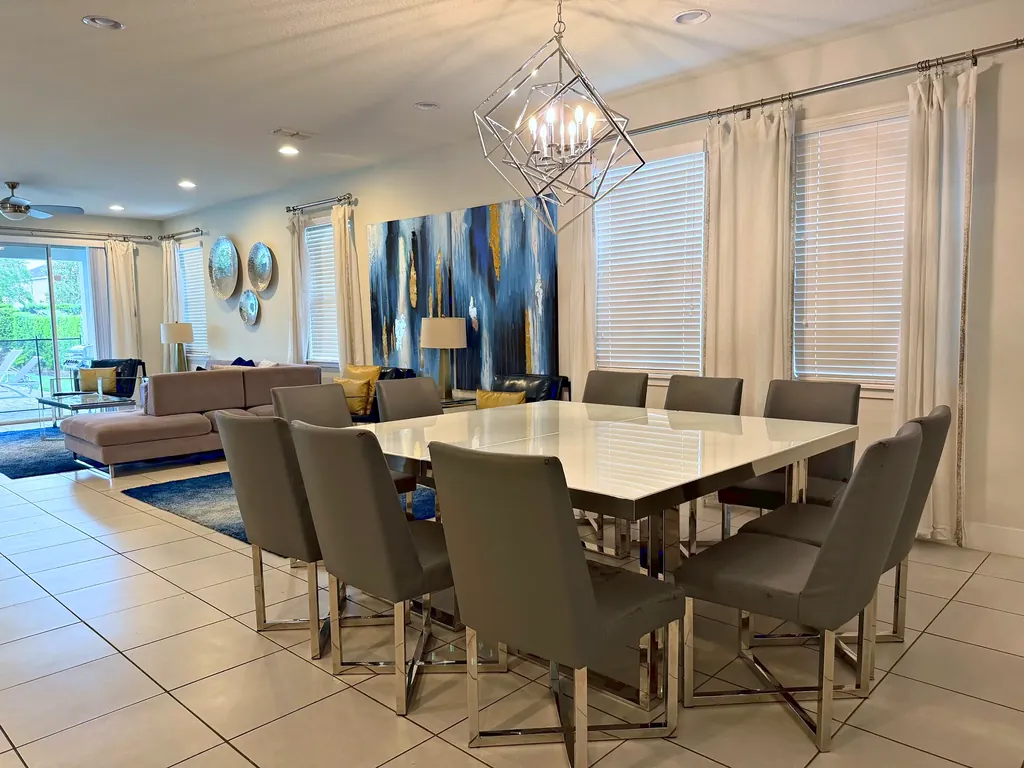
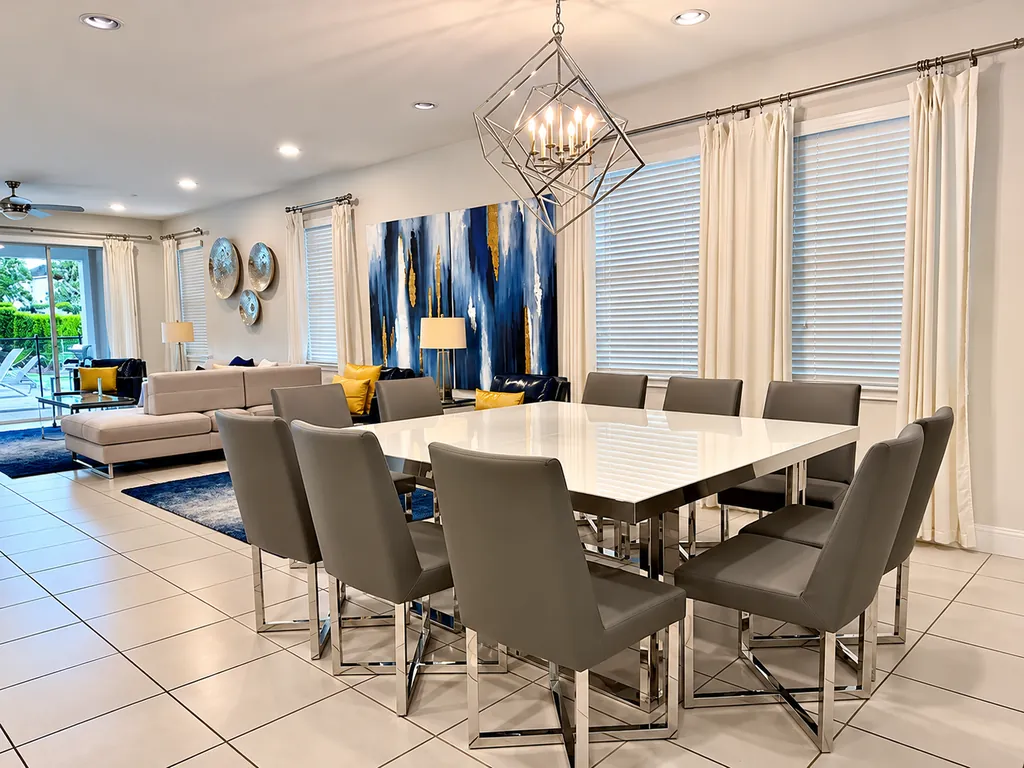
Replace open-plan dining photo with the enhanced version

diff --git a/index.html b/index.html
@@ -9,7 +9,7 @@
 
   <meta property="og:title" content="Villa Serena · 8-Bedroom Private Pool Villa">
   <meta property="og:description" content="8 bedrooms · 8 bathrooms · 13 beds · private pool. Book your family's Orlando stay direct.">
-  <meta property="og:image" content="assets/img/pool-lanai.jpg?v=28">
+  <meta property="og:image" content="assets/img/pool-lanai.jpg?v=29">
   <meta property="og:type" content="website">
 
   <link rel="icon" href="assets/favicon.svg" type="image/svg+xml">
@@ -17,8 +17,8 @@
   <link rel="preconnect" href="https://fonts.gstatic.com" crossorigin>
   <link href="https://fonts.googleapis.com/css2?family=Newsreader:ital,opsz,wght@0,6..72,400;0,6..72,500;1,6..72,400&family=Instrument+Sans:wght@400;500;600&display=swap" rel="stylesheet">
 
-  <link rel="preload" as="image" href="assets/img/pool-lanai-1630.webp?v=28"
-        imagesrcset="assets/img/pool-lanai-640.webp?v=28 640w, assets/img/pool-lanai-1024.webp?v=28 1024w, assets/img/pool-lanai-1630.webp?v=28 1630w"
+  <link rel="preload" as="image" href="assets/img/pool-lanai-1630.webp?v=29"
+        imagesrcset="assets/img/pool-lanai-640.webp?v=29 640w, assets/img/pool-lanai-1024.webp?v=29 1024w, assets/img/pool-lanai-1630.webp?v=29 1630w"
         imagesizes="100vw" type="image/webp">
   <link rel="stylesheet" href="css/styles.css">
 </head>
@@ -79,9 +79,9 @@
   <div class="hero-media">
     <picture>
       <source type="image/webp"
-              srcset="assets/img/pool-lanai-640.webp?v=28 640w, assets/img/pool-lanai-1024.webp?v=28 1024w, assets/img/pool-lanai-1630.webp?v=28 1630w"
+              srcset="assets/img/pool-lanai-640.webp?v=29 640w, assets/img/pool-lanai-1024.webp?v=29 1024w, assets/img/pool-lanai-1630.webp?v=29 1630w"
               sizes="100vw">
-      <img src="assets/img/pool-lanai.jpg?v=28" alt="The villa's private pool and spa with sun loungers and a covered lanai" width="1630" height="965" fetchpriority="high">
+      <img src="assets/img/pool-lanai.jpg?v=29" alt="The villa's private pool and spa with sun loungers and a covered lanai" width="1630" height="965" fetchpriority="high">
     </picture>
   </div>
   <div class="hero-shade" aria-hidden="true"></div>
@@ -117,14 +117,14 @@
     <div class="welcome-media reveal">
       <figure class="wm-main">
         <picture>
-          <source type="image/webp" srcset="assets/img/exterior-front-640.webp?v=28 640w, assets/img/exterior-front-1024.webp?v=28 1024w, assets/img/exterior-front-1600.webp?v=28 1600w, assets/img/exterior-front-1632.webp?v=28 1632w" sizes="(min-width: 960px) 40vw, 90vw">
-          <img src="assets/img/exterior-front.jpg?v=28" alt="Front exterior of the two-storey villa with a paver driveway" width="1632" height="964" loading="lazy" decoding="async">
+          <source type="image/webp" srcset="assets/img/exterior-front-640.webp?v=29 640w, assets/img/exterior-front-1024.webp?v=29 1024w, assets/img/exterior-front-1600.webp?v=29 1600w, assets/img/exterior-front-1632.webp?v=29 1632w" sizes="(min-width: 960px) 40vw, 90vw">
+          <img src="assets/img/exterior-front.jpg?v=29" alt="Front exterior of the two-storey villa with a paver driveway" width="1632" height="964" loading="lazy" decoding="async">
         </picture>
       </figure>
       <figure class="wm-accent">
         <picture>
-          <source type="image/webp" srcset="assets/img/dining-living-640.webp?v=28 640w, assets/img/dining-living-1024.webp?v=28 1024w" sizes="(min-width: 960px) 22vw, 50vw">
-          <img src="assets/img/dining-living.jpg?v=28" alt="Open-plan dining area with a large table and the living room beyond" width="2560" height="1920" loading="lazy" decoding="async">
+          <source type="image/webp" srcset="assets/img/dining-living-640.webp?v=29 640w, assets/img/dining-living-1024.webp?v=29 1024w, assets/img/dining-living-1448.webp?v=29 1448w" sizes="(min-width: 960px) 22vw, 50vw">
+          <img src="assets/img/dining-living.jpg?v=29" alt="Open-plan dining area with a large table and the living room beyond" width="1448" height="1086" loading="lazy" decoding="async">
         </picture>
       </figure>
           </div>
@@ -135,15 +135,15 @@
 <section class="photo-band" aria-label="The kitchen and living room">
   <figure>
     <picture>
-      <source type="image/webp" srcset="assets/img/kitchen-640.webp?v=28 640w, assets/img/kitchen-1024.webp?v=28 1024w, assets/img/kitchen-1600.webp?v=28 1600w, assets/img/kitchen-1634.webp?v=28 1634w" sizes="(min-width: 760px) 50vw, 100vw">
-      <img src="assets/img/kitchen.jpg?v=28" alt="Kitchen with dark cabinets, stainless appliances and an island with four bar stools" width="1634" height="962" loading="lazy" decoding="async">
+      <source type="image/webp" srcset="assets/img/kitchen-640.webp?v=29 640w, assets/img/kitchen-1024.webp?v=29 1024w, assets/img/kitchen-1600.webp?v=29 1600w, assets/img/kitchen-1634.webp?v=29 1634w" sizes="(min-width: 760px) 50vw, 100vw">
+      <img src="assets/img/kitchen.jpg?v=29" alt="Kitchen with dark cabinets, stainless appliances and an island with four bar stools" width="1634" height="962" loading="lazy" decoding="async">
     </picture>
     <figcaption>Kitchen</figcaption>
   </figure>
   <figure>
     <picture>
-      <source type="image/webp" srcset="assets/img/living-room-640.webp?v=28 640w, assets/img/living-room-1024.webp?v=28 1024w, assets/img/living-room-1536.webp?v=28 1536w" sizes="(min-width: 760px) 50vw, 100vw">
-      <img src="assets/img/living-room.jpg?v=28" alt="Living room with sectional sofa and sliding doors to the pool" width="1536" height="1024" loading="lazy" decoding="async">
+      <source type="image/webp" srcset="assets/img/living-room-640.webp?v=29 640w, assets/img/living-room-1024.webp?v=29 1024w, assets/img/living-room-1536.webp?v=29 1536w" sizes="(min-width: 760px) 50vw, 100vw">
+      <img src="assets/img/living-room.jpg?v=29" alt="Living room with sectional sofa and sliding doors to the pool" width="1536" height="1024" loading="lazy" decoding="async">
     </picture>
     <figcaption>Living room</figcaption>
   </figure>
@@ -250,20 +250,20 @@
     <div class="villa-band reveal">
       <figure>
         <picture>
-          <source type="image/webp" srcset="assets/img/bedroom-twin-beds-640.webp?v=28 640w, assets/img/bedroom-twin-beds-1024.webp?v=28 1024w, assets/img/bedroom-twin-beds-1446.webp?v=28 1446w" sizes="(min-width: 960px) 33vw, 100vw">
-          <img src="assets/img/bedroom-twin-beds.jpg?v=28" alt="Bedroom with two beds and a tall upholstered headboard" width="1446" height="1087" loading="lazy" decoding="async">
+          <source type="image/webp" srcset="assets/img/bedroom-twin-beds-640.webp?v=29 640w, assets/img/bedroom-twin-beds-1024.webp?v=29 1024w, assets/img/bedroom-twin-beds-1446.webp?v=29 1446w" sizes="(min-width: 960px) 33vw, 100vw">
+          <img src="assets/img/bedroom-twin-beds.jpg?v=29" alt="Bedroom with two beds and a tall upholstered headboard" width="1446" height="1087" loading="lazy" decoding="async">
         </picture>
       </figure>
       <figure>
         <picture>
-          <source type="image/webp" srcset="assets/img/bunk-room-640.webp?v=28 640w, assets/img/bunk-room-1024.webp?v=28 1024w, assets/img/bunk-room-1600.webp?v=28 1600w" sizes="(min-width: 960px) 33vw, 100vw">
-          <img src="assets/img/bunk-room.jpg?v=28" alt="Kids' bunk room with a mural wall" width="2560" height="1920" loading="lazy" decoding="async">
+          <source type="image/webp" srcset="assets/img/bunk-room-640.webp?v=29 640w, assets/img/bunk-room-1024.webp?v=29 1024w, assets/img/bunk-room-1600.webp?v=29 1600w" sizes="(min-width: 960px) 33vw, 100vw">
+          <img src="assets/img/bunk-room.jpg?v=29" alt="Kids' bunk room with a mural wall" width="2560" height="1920" loading="lazy" decoding="async">
         </picture>
       </figure>
       <figure>
         <picture>
-          <source type="image/webp" srcset="assets/img/bathroom-double-vanity-640.webp?v=28 640w, assets/img/bathroom-double-vanity-1024.webp?v=28 1024w, assets/img/bathroom-double-vanity-1600.webp?v=28 1600w, assets/img/bathroom-double-vanity-1645.webp?v=28 1645w" sizes="(min-width: 960px) 33vw, 100vw">
-          <img src="assets/img/bathroom-double-vanity.jpg?v=28" alt="Bathroom with a double vanity, glass shower and tub" width="1645" height="956" loading="lazy" decoding="async">
+          <source type="image/webp" srcset="assets/img/bathroom-double-vanity-640.webp?v=29 640w, assets/img/bathroom-double-vanity-1024.webp?v=29 1024w, assets/img/bathroom-double-vanity-1600.webp?v=29 1600w, assets/img/bathroom-double-vanity-1645.webp?v=29 1645w" sizes="(min-width: 960px) 33vw, 100vw">
+          <img src="assets/img/bathroom-double-vanity.jpg?v=29" alt="Bathroom with a double vanity, glass shower and tub" width="1645" height="956" loading="lazy" decoding="async">
         </picture>
       </figure>
     </div>
@@ -277,9 +277,9 @@
       <div class="amen-feature reveal">
         <figure class="amen-photo">
           <picture>
-            <source type="image/webp" media="(min-width: 641px) and (max-width: 960px)" srcset="assets/img/pool-deck-640.webp?v=28 640w, assets/img/pool-deck-1024.webp?v=28 1024w, assets/img/pool-deck-1206.webp?v=28 1206w" sizes="100vw">
-            <source type="image/webp" srcset="assets/img/pool-deck-tall-640.webp?v=28 640w, assets/img/pool-deck-tall-1024.webp?v=28 1024w, assets/img/pool-deck-tall-1086.webp?v=28 1086w" sizes="(min-width: 960px) 45vw, 100vw">
-            <img src="assets/img/pool-deck-tall.jpg?v=28" alt="Pool deck with spa, loungers and outdoor dining under a blue sky" width="1086" height="1448" loading="lazy" decoding="async">
+            <source type="image/webp" media="(min-width: 641px) and (max-width: 960px)" srcset="assets/img/pool-deck-640.webp?v=29 640w, assets/img/pool-deck-1024.webp?v=29 1024w, assets/img/pool-deck-1206.webp?v=29 1206w" sizes="100vw">
+            <source type="image/webp" srcset="assets/img/pool-deck-tall-640.webp?v=29 640w, assets/img/pool-deck-tall-1024.webp?v=29 1024w, assets/img/pool-deck-tall-1086.webp?v=29 1086w" sizes="(min-width: 960px) 45vw, 100vw">
+            <img src="assets/img/pool-deck-tall.jpg?v=29" alt="Pool deck with spa, loungers and outdoor dining under a blue sky" width="1086" height="1448" loading="lazy" decoding="async">
           </picture>
           <figcaption>
             <strong>Fully private pool area</strong>
@@ -337,29 +337,29 @@
     <div class="amen-strip reveal" aria-label="More of the villa">
       <figure>
         <picture>
-          <source type="image/webp" srcset="assets/img/sitting-area-640.webp?v=28 640w, assets/img/sitting-area-1024.webp?v=28 1024w, assets/img/sitting-area-1448.webp?v=28 1448w" sizes="(min-width: 960px) 25vw, 70vw">
-          <img src="assets/img/sitting-area.jpg?v=28" alt="Sitting area with two armchairs and large blue and gold artwork" width="1448" height="1086" loading="lazy" decoding="async">
+          <source type="image/webp" srcset="assets/img/sitting-area-640.webp?v=29 640w, assets/img/sitting-area-1024.webp?v=29 1024w, assets/img/sitting-area-1448.webp?v=29 1448w" sizes="(min-width: 960px) 25vw, 70vw">
+          <img src="assets/img/sitting-area.jpg?v=29" alt="Sitting area with two armchairs and large blue and gold artwork" width="1448" height="1086" loading="lazy" decoding="async">
         </picture>
         <figcaption>Sitting area</figcaption>
       </figure>
       <figure>
         <picture>
-          <source type="image/webp" srcset="assets/img/home-theater-640.webp?v=28 640w, assets/img/home-theater-1024.webp?v=28 1024w, assets/img/home-theater-1540.webp?v=28 1540w" sizes="(min-width: 960px) 25vw, 70vw">
-          <img src="assets/img/home-theater.jpg?v=28" alt="Home theater with a large screen and recliner seating" width="1540" height="1021" loading="lazy" decoding="async">
+          <source type="image/webp" srcset="assets/img/home-theater-640.webp?v=29 640w, assets/img/home-theater-1024.webp?v=29 1024w, assets/img/home-theater-1540.webp?v=29 1540w" sizes="(min-width: 960px) 25vw, 70vw">
+          <img src="assets/img/home-theater.jpg?v=29" alt="Home theater with a large screen and recliner seating" width="1540" height="1021" loading="lazy" decoding="async">
         </picture>
         <figcaption>Home theater</figcaption>
       </figure>
       <figure>
         <picture>
-          <source type="image/webp" srcset="assets/img/game-room-640.webp?v=28 640w, assets/img/game-room-1024.webp?v=28 1024w, assets/img/game-room-1448.webp?v=28 1448w" sizes="(min-width: 960px) 25vw, 70vw">
-          <img src="assets/img/game-room.jpg?v=28" alt="Game room with table tennis, foosball and an arcade cabinet" width="1448" height="1086" loading="lazy" decoding="async">
+          <source type="image/webp" srcset="assets/img/game-room-640.webp?v=29 640w, assets/img/game-room-1024.webp?v=29 1024w, assets/img/game-room-1448.webp?v=29 1448w" sizes="(min-width: 960px) 25vw, 70vw">
+          <img src="assets/img/game-room.jpg?v=29" alt="Game room with table tennis, foosball and an arcade cabinet" width="1448" height="1086" loading="lazy" decoding="async">
         </picture>
         <figcaption>Game room</figcaption>
       </figure>
       <figure>
         <picture>
-          <source type="image/webp" srcset="assets/img/dining-room-640.webp?v=28 640w, assets/img/dining-room-1024.webp?v=28 1024w, assets/img/dining-room-1448.webp?v=28 1448w" sizes="(min-width: 960px) 25vw, 70vw">
-          <img src="assets/img/dining-room.jpg?v=28" alt="Dining room with a large white table and chandelier" width="1448" height="1086" loading="lazy" decoding="async">
+          <source type="image/webp" srcset="assets/img/dining-room-640.webp?v=29 640w, assets/img/dining-room-1024.webp?v=29 1024w, assets/img/dining-room-1448.webp?v=29 1448w" sizes="(min-width: 960px) 25vw, 70vw">
+          <img src="assets/img/dining-room.jpg?v=29" alt="Dining room with a large white table and chandelier" width="1448" height="1086" loading="lazy" decoding="async">
         </picture>
         <figcaption>Dining</figcaption>
       </figure>
@@ -431,8 +431,8 @@
 <section class="book" id="book">
   <div class="book-media" aria-hidden="true">
     <picture>
-      <source type="image/webp" srcset="assets/img/exterior-front-640.webp?v=28 640w, assets/img/exterior-front-1024.webp?v=28 1024w, assets/img/exterior-front-1600.webp?v=28 1600w, assets/img/exterior-front-1632.webp?v=28 1632w" sizes="100vw">
-      <img src="assets/img/exterior-front.jpg?v=28" alt="" width="1632" height="964" loading="lazy" decoding="async">
+      <source type="image/webp" srcset="assets/img/exterior-front-640.webp?v=29 640w, assets/img/exterior-front-1024.webp?v=29 1024w, assets/img/exterior-front-1600.webp?v=29 1600w, assets/img/exterior-front-1632.webp?v=29 1632w" sizes="100vw">
+      <img src="assets/img/exterior-front.jpg?v=29" alt="" width="1632" height="964" loading="lazy" decoding="async">
     </picture>
   </div>
   <div class="book-shade" aria-hidden="true"></div>

diff --git a/js/main.js b/js/main.js
@@ -29,7 +29,7 @@ const PHOTOS = [
   { slug: "pool-deck-tall",        cat: "outdoor",   caption: "Pool deck, spa & sun loungers",     w: 1086, size: "tall", ws: [640, 1024, 1086] },
   { slug: "bathroom-double-vanity",cat: "bathrooms", caption: "Bathroom with double vanity & tub",  w: 1645, size: "wide", ws: [640, 1024, 1600, 1645] },
   // ---- shown after "View all photos" ----
-  { slug: "dining-living",         cat: "living",    caption: "Open-plan dining & living",          w: 2560, size: "wide" },
+  { slug: "dining-living",         cat: "living",    caption: "Open-plan dining & living",          w: 1448, size: "wide", ws: [640, 1024, 1448] },
   { slug: "bedroom-twin-beds",     cat: "bedrooms",  caption: "Bedroom",                            w: 1446, size: "wide", ws: [640, 1024, 1446] },
   { slug: "kids-bedroom",          cat: "bedrooms",  caption: "Themed kids' bedroom",               w: 2560 },
   { slug: "bedroom-navy",          cat: "bedrooms",  caption: "Bedroom",                            w: 2560 },
@@ -45,7 +45,7 @@ const PHOTOS = [
 ];
 const INITIAL_COUNT = 4;
 const IMG = "assets/img/";
-const IMG_V = "?v=28"; // bump when photos change so browsers fetch the new files
+const IMG_V = "?v=29"; // bump when photos change so browsers fetch the new files
 
 const widthsFor = (p) => p.ws || (p.w > 1206 ? [640, 1024, 1600, 2200] : [640, 1024, 1206]);
 const srcset = (p, max = Infinity) =>

diff --git a/README.md b/README.md
@@ -104,4 +104,4 @@ it, then repeat the polish and the wall recolour.
 
 Browsers keep photos for a day (see `vercel.json`). When a photo changes, bump the
 version tag so visitors get the new file right away: `IMG_V` at the top of `js/main.js`
-and every `?v=` in `index.html` (find and replace `?v=28` with `?v=29`).
+and every `?v=` in `index.html` (find and replace `?v=29` with `?v=30`).
